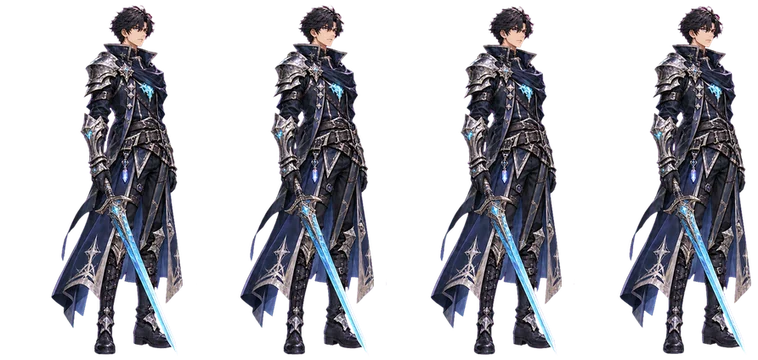
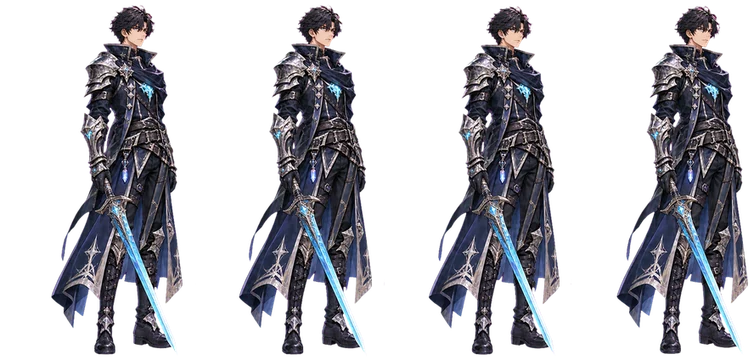
전투 v4: 달리기/걷기 시트 스트립 단위 정규화(크기 균일화)·발 기준선 재검출·에셋 캐시 버전 분리

diff --git a/guardian/battle_v2/js/assets.js b/guardian/battle_v2/js/assets.js
@@ -76,7 +76,7 @@
 
     /* 버전 쿼리: 배포 후 CDN/브라우저에 옛 이미지가 남지 않게 */
     _v(path) {
-      const v = (window.G && G.VERSION ? G.VERSION : 'v0');
+      const v = (window.G && (G.ASSET_V || G.VERSION)) || 'v0';
       return path + (path.indexOf('?') >= 0 ? '&' : '?') + 'v=' + encodeURIComponent(v);
     },
 

diff --git a/guardian/battle_v2/js/util.js b/guardian/battle_v2/js/util.js
@@ -4,6 +4,7 @@
 window.G = window.G || {};
 
 G.VERSION = 'v4.0.0-build310';
+G.ASSET_V = 'a4.0.0';   // 이미지/시트 캐시 무효화용 (에셋을 갱신하면 올린다)
 G.W = 1280;
 G.H = 720;
 
